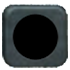
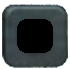
add bigRedButton, clock

diff --git a/paintwindow.cpp b/paintwindow.cpp
@@ -81,6 +81,9 @@ PaintWindow::PaintWindow(QWidget *parent) : QWidget(parent), ui(new Ui::PaintWin
     ui->btnPrev->setStyleSheet("QPushButton:pressed {background: url(:btnBlackActive);}"
                                            "QPushButton {border: none;"
                                            "background: url(:btnBlackInactive);}");
+    ui->btnBigRed->setStyleSheet("QPushButton:pressed {background: url(:btnBigRedActive);}"
+                                           "QPushButton {border: none;"
+                                           "background: url(:btnBigRedInactive);}");
 }
 
 void PaintWindow::slotBtnColorClicked(int number){
